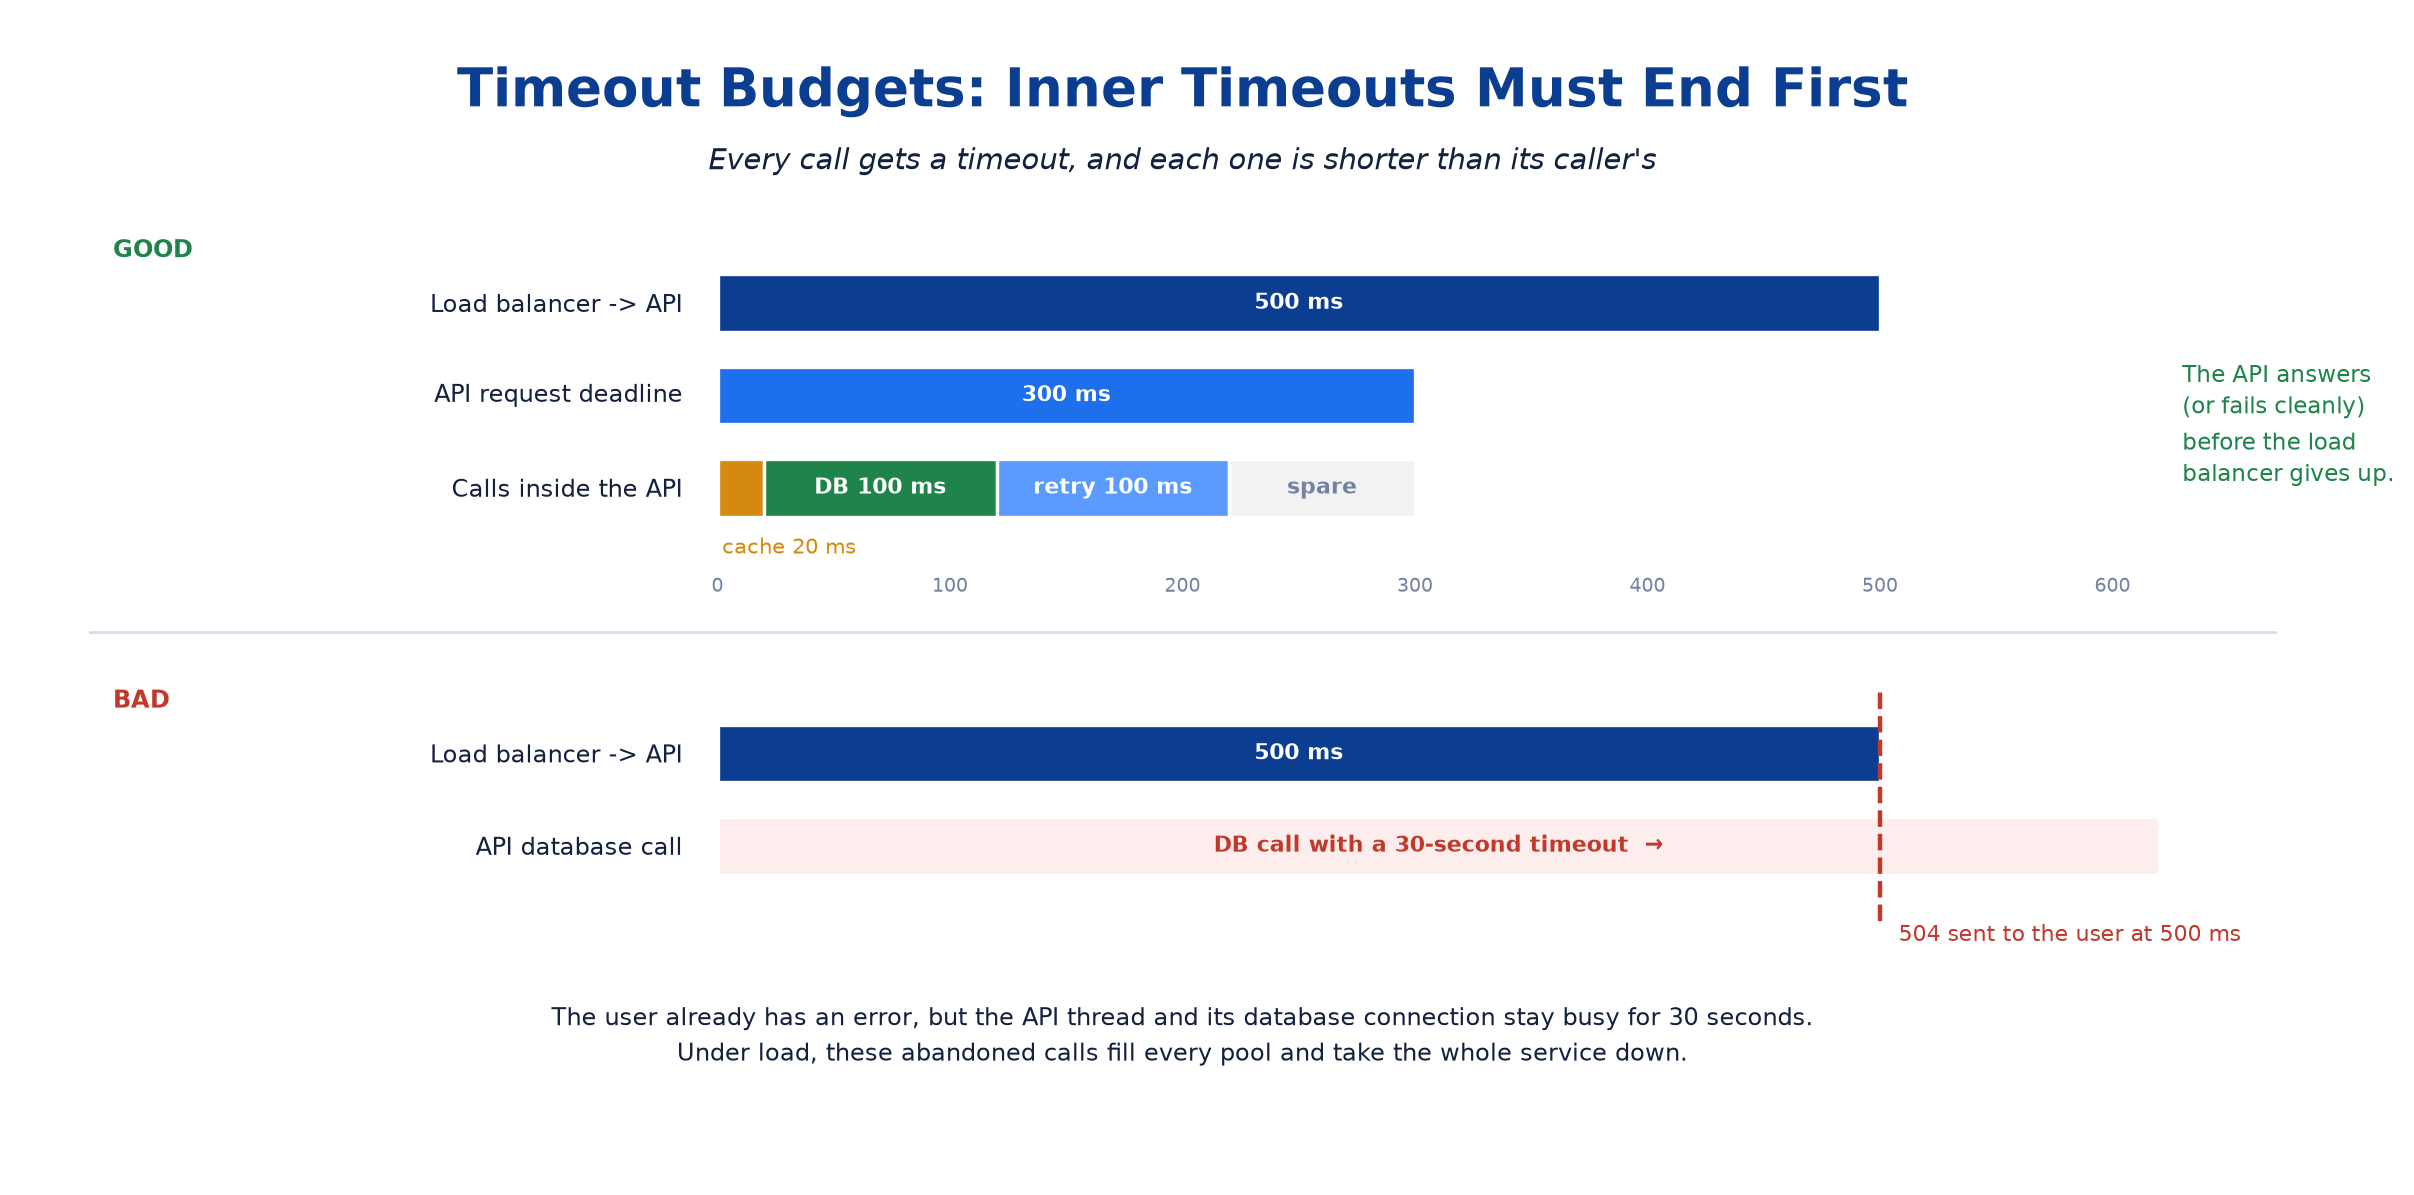
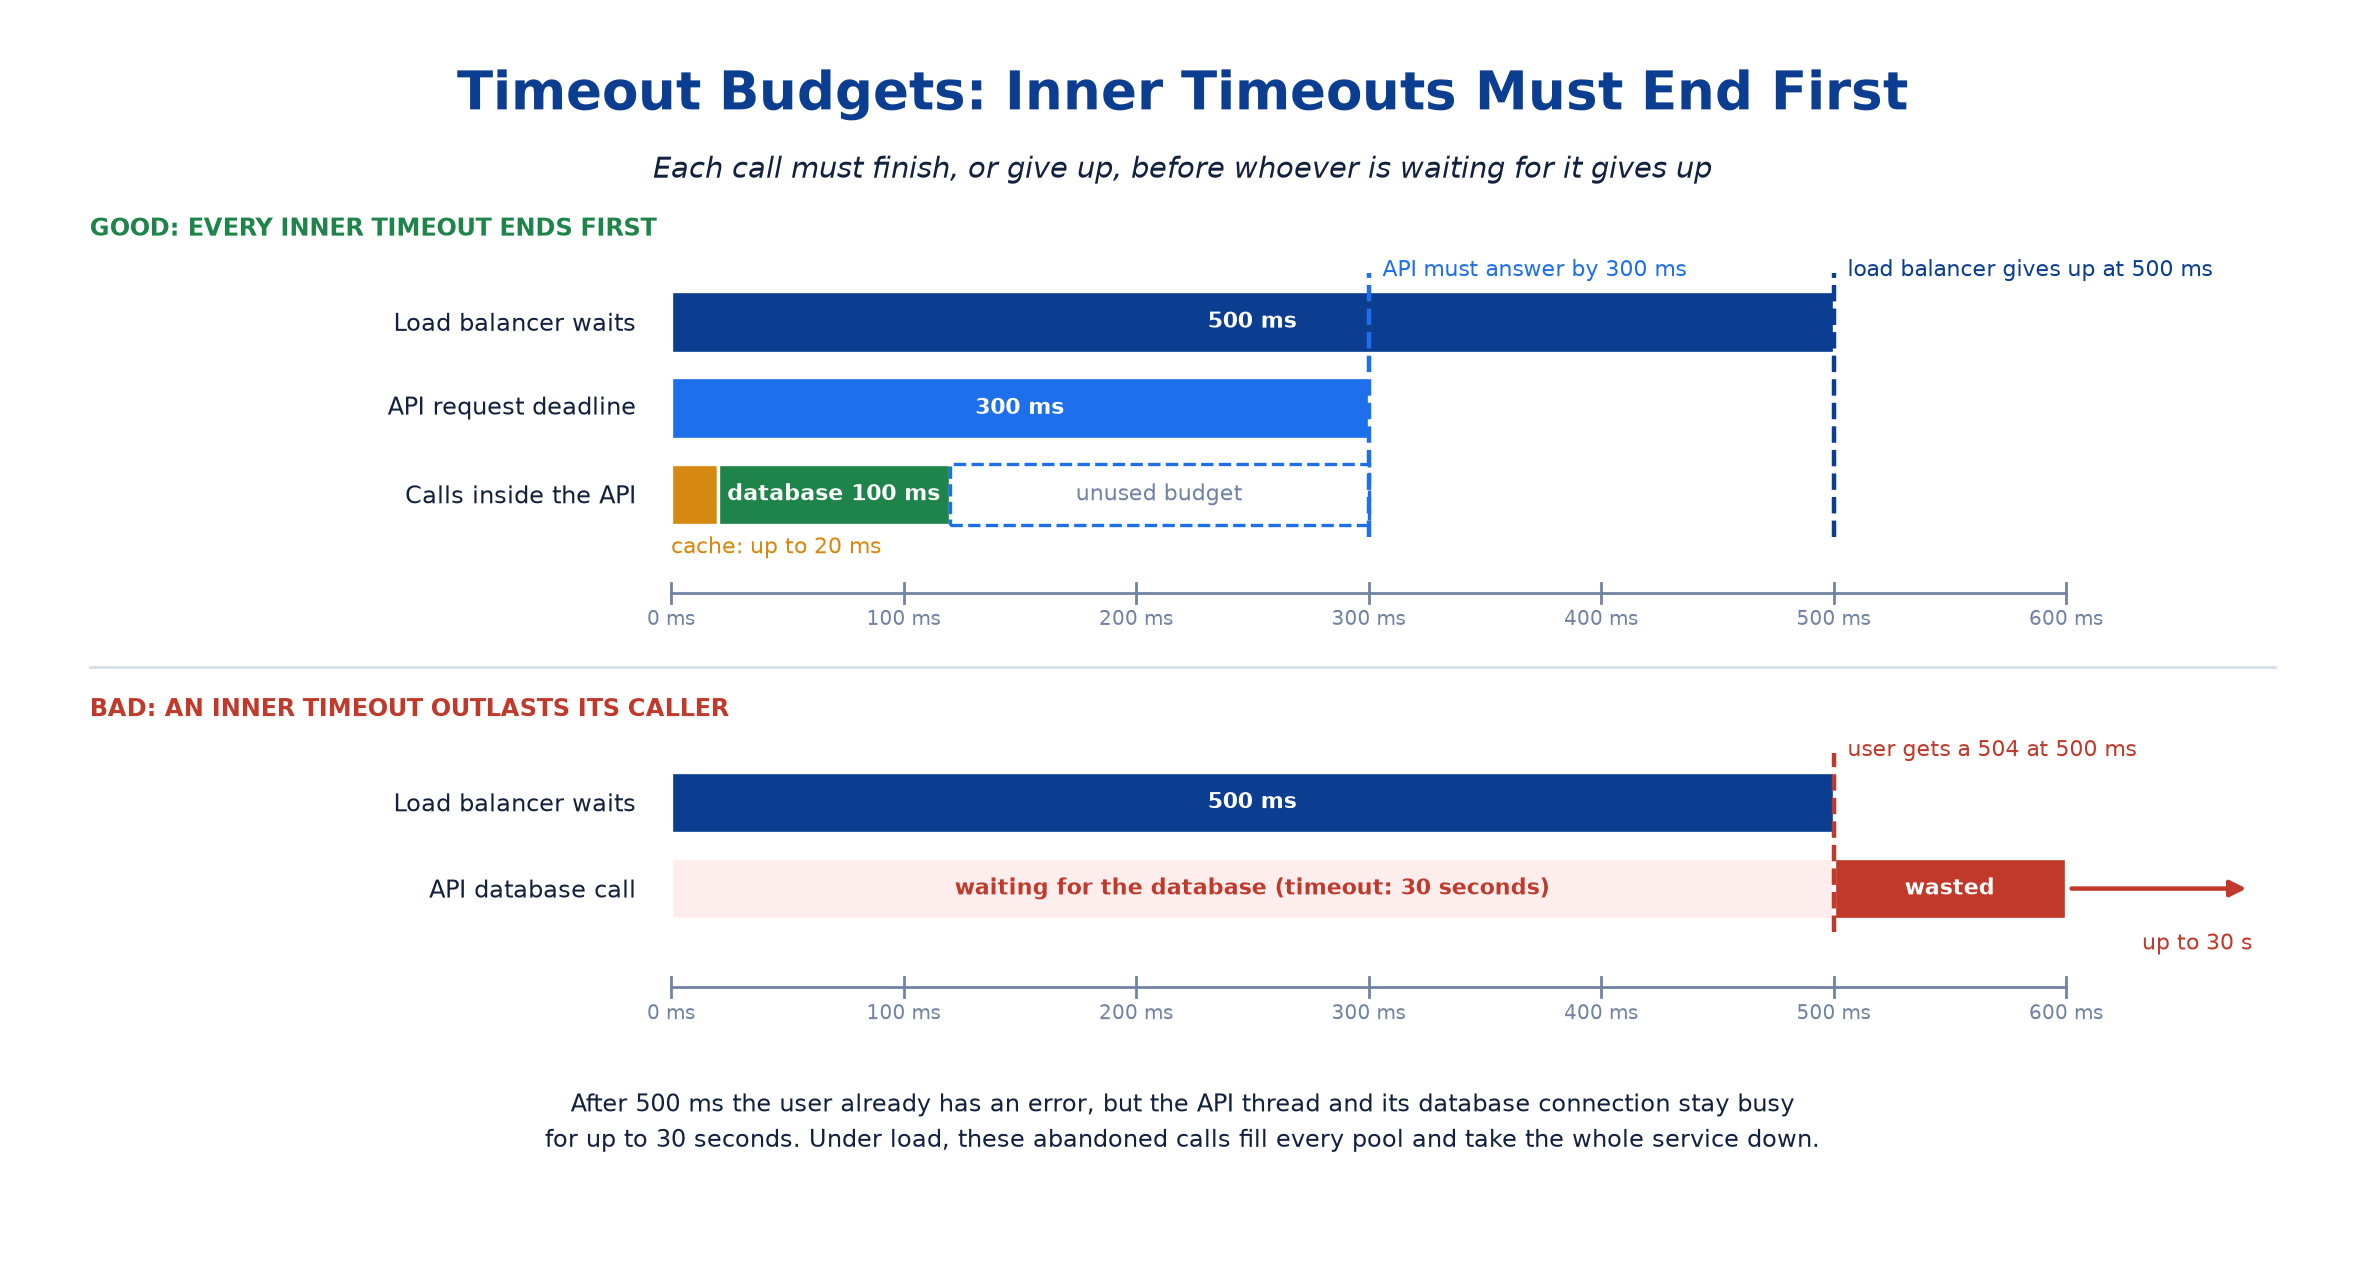
Basics 4: clearer timeout budget section and figure

diff --git a/system-design/_support/tools/plot_topic_04_figures.py b/system-design/_support/tools/plot_topic_04_figures.py
@@ -353,47 +353,68 @@ def http_versions() -> plt.Figure:
 
 
 def timeout_budget() -> plt.Figure:
-    fig, ax = canvas(15, 7.5)
+    fig, ax = canvas(15, 8)
     heading(ax, "Timeout Budgets: Inner Timeouts Must End First",
-            "Every call gets a timeout, and each one is shorter than its caller's")
-    origin, scale = 30, 60 / 600     # 600 ms of time across 60 units
+            "Each call must finish, or give up, before whoever is waiting for it gives up")
+    origin, scale = 28, 60 / 600     # 600 ms of time across 60 units
+
+    def x_at(ms: float) -> float:
+        return origin + ms * scale
 
     def span(start_ms: float, length_ms: float, y: float, color: str, label: str,
              *, text_color: str = WHITE) -> None:
-        bar(ax, origin + start_ms * scale, y, length_ms * scale, 5, color, label,
-            text_color=text_color)
+        bar(ax, x_at(start_ms), y, length_ms * scale, 5, color, label, text_color=text_color)
 
-    caps(ax, 4, 80, "GOOD", color=GREEN, ha="left")
-    rows = [(73, "Load balancer -> API"), (65, "API request deadline"), (57, "Calls inside the API")]
-    for y, label in rows:
+    def row_label(y: float, label: str) -> None:
         note(ax, origin - 1.5, y + 2.5, label, ha="right", size=8.8)
+
+    def ruler(y: float) -> None:
+        ax.plot([origin, x_at(600)], [y, y], color=GREY, linewidth=1)
+        for ms in range(0, 601, 100):
+            ax.plot([x_at(ms), x_at(ms)], [y - 0.8, y + 0.8], color=GREY, linewidth=1)
+            ax.text(x_at(ms), y - 2.6, f"{ms} ms", ha="center", fontsize=7.2, color=GREY)
+
+    def gives_up(ms: float, bottom: float, top: float, color: str, label: str) -> None:
+        ax.plot([x_at(ms), x_at(ms)], [bottom, top], color=color, linewidth=1.6,
+                linestyle="--")
+        note(ax, x_at(ms) + 0.6, top + 0.2, label, size=8, color=color)
+
+    # GOOD: every inner timeout ends before its caller's.
+    caps(ax, 3, 83, "GOOD: EVERY INNER TIMEOUT ENDS FIRST", color=GREEN, ha="left")
+    row_label(73, "Load balancer waits")
+    row_label(66, "API request deadline")
+    row_label(59, "Calls inside the API")
     span(0, 500, 73, NAVY, "500 ms")
-    span(0, 300, 65, BLUE, "300 ms")
-    span(0, 20, 57, AMBER, "")
-    span(20, 100, 57, GREEN, "DB 100 ms")
-    span(120, 100, 57, SKY, "retry 100 ms")
-    span(220, 80, 57, DEAD, "spare", text_color=GREY)
-    note(ax, origin + 0.2, 54.5, "cache 20 ms", size=7.6, color=AMBER)
-    note(ax, 93, 65, "The API answers\n(or fails cleanly)\nbefore the load\nbalancer gives up.",
-         size=8.4, color=GREEN)
+    span(0, 300, 66, BLUE, "300 ms")
+    span(0, 20, 59, AMBER, "")
+    span(20, 100, 59, GREEN, "database 100 ms")
+    ax.add_patch(Rectangle((x_at(120), 59), 180 * scale, 5, facecolor=WHITE,
+                           edgecolor=BLUE, linewidth=1.2, linestyle="--"))
+    note(ax, x_at(210), 61.5, "unused budget", size=8, color=GREY, ha="center")
+    note(ax, x_at(0), 57.2, "cache: up to 20 ms", size=7.8, color=AMBER)
+    gives_up(300, 58, 79.5, BLUE, "API must answer by 300 ms")
+    gives_up(500, 58, 79.5, NAVY, "load balancer gives up at 500 ms")
+    ruler(53.5)
 
-    ax.plot([3, 97], [47, 47], color=LINE, linewidth=1)
+    ax.plot([3, 97], [47.5, 47.5], color=LINE, linewidth=1)
 
-    caps(ax, 4, 41, "BAD", color=RED, ha="left")
-    note(ax, origin - 1.5, 36.5, "Load balancer -> API", ha="right", size=8.8)
-    note(ax, origin - 1.5, 28.5, "API database call", ha="right", size=8.8)
+    # BAD: the database call outlasts the load balancer.
+    caps(ax, 3, 44, "BAD: AN INNER TIMEOUT OUTLASTS ITS CALLER", color=RED, ha="left")
+    row_label(34, "Load balancer waits")
+    row_label(27, "API database call")
     span(0, 500, 34, NAVY, "500 ms")
-    bar(ax, origin, 26, 62, 5, RED_FACE)
-    ax.text(origin + 31, 28.5, "DB call with a 30-second timeout  →", ha="center",
-            va="center", fontsize=8, fontweight="bold", color=RED)
-    ax.plot([origin + 50, origin + 50], [22, 42], color=RED, linewidth=1.6, linestyle="--")
-    note(ax, origin + 50.8, 21, "504 sent to the user at 500 ms", size=8, color=RED)
-    note(ax, 50, 12, "The user already has an error, but the API thread and its database "
-         "connection stay busy for 30 seconds.\nUnder load, these abandoned calls fill "
-         "every pool and take the whole service down.", ha="center", size=8.8)
-
-    for ms in (0, 100, 200, 300, 400, 500, 600):
-        ax.text(origin + ms * scale, 50.5, f"{ms}", ha="center", fontsize=7, color=GREY)
+    span(0, 500, 27, RED_FACE, "waiting for the database (timeout: 30 seconds)",
+         text_color=RED)
+    span(500, 100, 27, RED, "wasted")
+    ax.add_patch(FancyArrowPatch((x_at(600), 29.5), (96, 29.5), arrowstyle="-|>",
+                                 mutation_scale=12, linewidth=1.6, color=RED))
+    note(ax, 96, 25, "up to 30 s", size=8, color=RED, ha="right")
+    gives_up(500, 26, 40.5, RED, "user gets a 504 at 500 ms")
+    ruler(21.5)
+    note(ax, 50, 10.5, "After 500 ms the user already has an error, but the API thread and its "
+         "database connection stay busy\nfor up to 30 seconds. Under load, these abandoned "
+         "calls fill every pool and take the whole service down.",
+         ha="center", size=8.8)
     return fig
 
 

diff --git a/system-design/basics/04_Networking_And_Request_Lifecycle.md b/system-design/basics/04_Networking_And_Request_Lifecycle.md
@@ -471,24 +471,31 @@ Connections in use ≈ 670 × 0.001 ≈ 0.7, so a pool of a few connections is p
 
 ### Timeout budgets
 
-Every network call needs a limit on how long it will wait, called a **timeout**. The skill is choosing each one so that it ends before the caller's own timeout does.
+Every network call needs a limit on how long it will wait, called a **timeout**. Without one, a single stuck call can wait forever: a server can crash halfway through a response, or a packet can vanish, and the waiting thread stays stuck, holding on to its memory and its pooled connection.
 
-![Nested timeout budget: inner timeouts end before the caller gives up](assets/topic-04/timeout_budget.png)
+A timeout on each call is not enough, though; the timeouts also have to **fit together**. Think of promising your manager an answer within 5 minutes. If you then ask a colleague and agree to wait up to 10 minutes for them, you will break your promise. You have to give your colleague *less* time than you have yourself. Services work the same way: **each inner call must finish, or give up, before whoever is waiting for it gives up.**
 
-A network call can hang forever: a server can crash mid-response, or a packet can vanish. Without a timeout, the waiting thread stays stuck, holding its memory and its pooled connection. There are four kinds of timeout:
+![Timeout budget: in the good case inner timeouts end first; in the bad case a 30-second database timeout outlasts the load balancer](assets/topic-04/timeout_budget.png)
 
-| Timeout | What it limits | Typical value inside a data center |
+**Reading the picture:**
+
+- **The top half follows the rule.** The load balancer waits up to 500 ms for the Link API, and the API gives itself a deadline of 300 ms, well inside that. Within those 300 ms, the cache gets up to 20 ms and the database up to 100 ms, and the rest is spare. Whatever happens, the API answers, or fails cleanly with a clear error, before the load balancer gives up.
+- **The bottom half breaks it.** The database call is allowed to wait 30 seconds, but the load balancer gives up after 500 ms and sends the user a `504 Gateway Timeout`. The user already has an error, yet the API thread and its database connection stay busy for up to another 29.5 seconds, doing work nobody will ever receive. Under load, these abandoned calls fill every pool, and the service falls over.
+
+**Four kinds of timeout.** A single call can get stuck at several different points, and each point has its own timeout:
+
+| Timeout | What it limits | A sensible value inside a data center |
 |---|---|---|
-| **Connect timeout** | Setting up the TCP (and TLS) connection | 100–500 ms; a healthy host answers in about a millisecond |
-| **Read (response) timeout** | Waiting for the response after sending the request | The dependency's normal p99 latency, plus a margin |
-| **Pool wait timeout** | Waiting for a free connection from the pool | Tens of milliseconds; waiting longer only builds a queue |
-| **Overall deadline** | The whole request, across all its calls | Set from the latency target your callers depend on |
+| **Connect timeout** | How long to wait while setting up the TCP (and TLS) connection to the other machine. | 100–500 ms. A healthy host answers in about a millisecond, so a slow connect usually means the host is down or unreachable. |
+| **Read (response) timeout** | How long to wait for the response, after the request has been sent. | A little above the dependency's normal p99 latency (the time that 99% of its responses beat). Waiting longer rarely helps. |
+| **Pool wait timeout** | How long to wait for a free connection from the [connection pool](#keep-alive-and-connection-pools). | Tens of milliseconds. If no connection is free by then, waiting longer only builds a queue. |
+| **Overall deadline** | The total time for the whole request, across every call it makes. | Set from the latency your own callers expect, and always shorter than their timeout. |
 
-**The rule: each inner timeout must end before the timeout of whatever is waiting for it.** In the top half of the picture, the load balancer waits 500 ms and the Link API gives itself 300 ms, so the API always answers, or fails cleanly, before the load balancer gives up.
+**Pass the deadline down.** The simplest way to follow the rule is to work out one deadline when the request arrives, and let every call use only the time that is still left. In the code below, the Link API received the request with a deadline of "now + 300 ms":
 
-The bottom half shows what happens when the rule is broken. The database call may wait 30 seconds, but the load balancer gives up after 500 ms and sends the user a `504`. The user already has an error, yet the API thread and its database connection stay busy for another 29.5 seconds, doing work nobody will receive. Under load, these abandoned calls fill every pool, and the service falls over.
-
-The simplest way to follow the rule is to **pass the deadline down**, so every call uses at most the time that is left:
+1. The cache gets at most 20 ms, so a slow cache cannot eat the whole budget.
+2. On a cache miss, the code checks how much time is left. If it is less than 10 ms, there is no point trying the database, so it fails straight away.
+3. Otherwise, the database gets 100 ms, or whatever time is left if that is less, so it can never run past the deadline.
 
 ```java
 LinkTarget resolve(String code, Instant deadline) {
@@ -505,10 +512,10 @@ LinkTarget resolve(String code, Instant deadline) {
 }
 ```
 
-gRPC does this automatically: the first caller's deadline travels with the request to every service it calls.
+gRPC does this automatically: the first caller's deadline travels with the request to every service it calls, so each one knows how much time is left.
 
 !!! warning "Retries multiply load"
-    A timeout is often followed by a retry. If three layers of services each retry three times, one user request becomes 3 × 3 × 3 = 27 requests at the bottom layer, exactly when it is already struggling. Retry at one layer only, wait longer between attempts, and only retry idempotent requests. See **Advanced 7 (Idempotency & Retries)**.
+    A timeout is often followed by a retry. That is fine at one layer, but dangerous at several. If three layers of services each retry three times, one user request can become 3 × 3 × 3 = **27** requests at the bottom layer, arriving exactly when that layer is already struggling. So retry at one layer only, wait a little longer before each new attempt, and only retry requests that are idempotent. See **Advanced 7 (Idempotency & Retries)**.
 
 **What this tells us:** the URL shortener's budget is 500 ms at the load balancer, a 300 ms deadline in the API, about 20 ms for the cache, and about 100 ms for the link store. A slow cache costs at most 20 ms before the API falls back to the store, and nothing ever waits longer than its caller.
 
